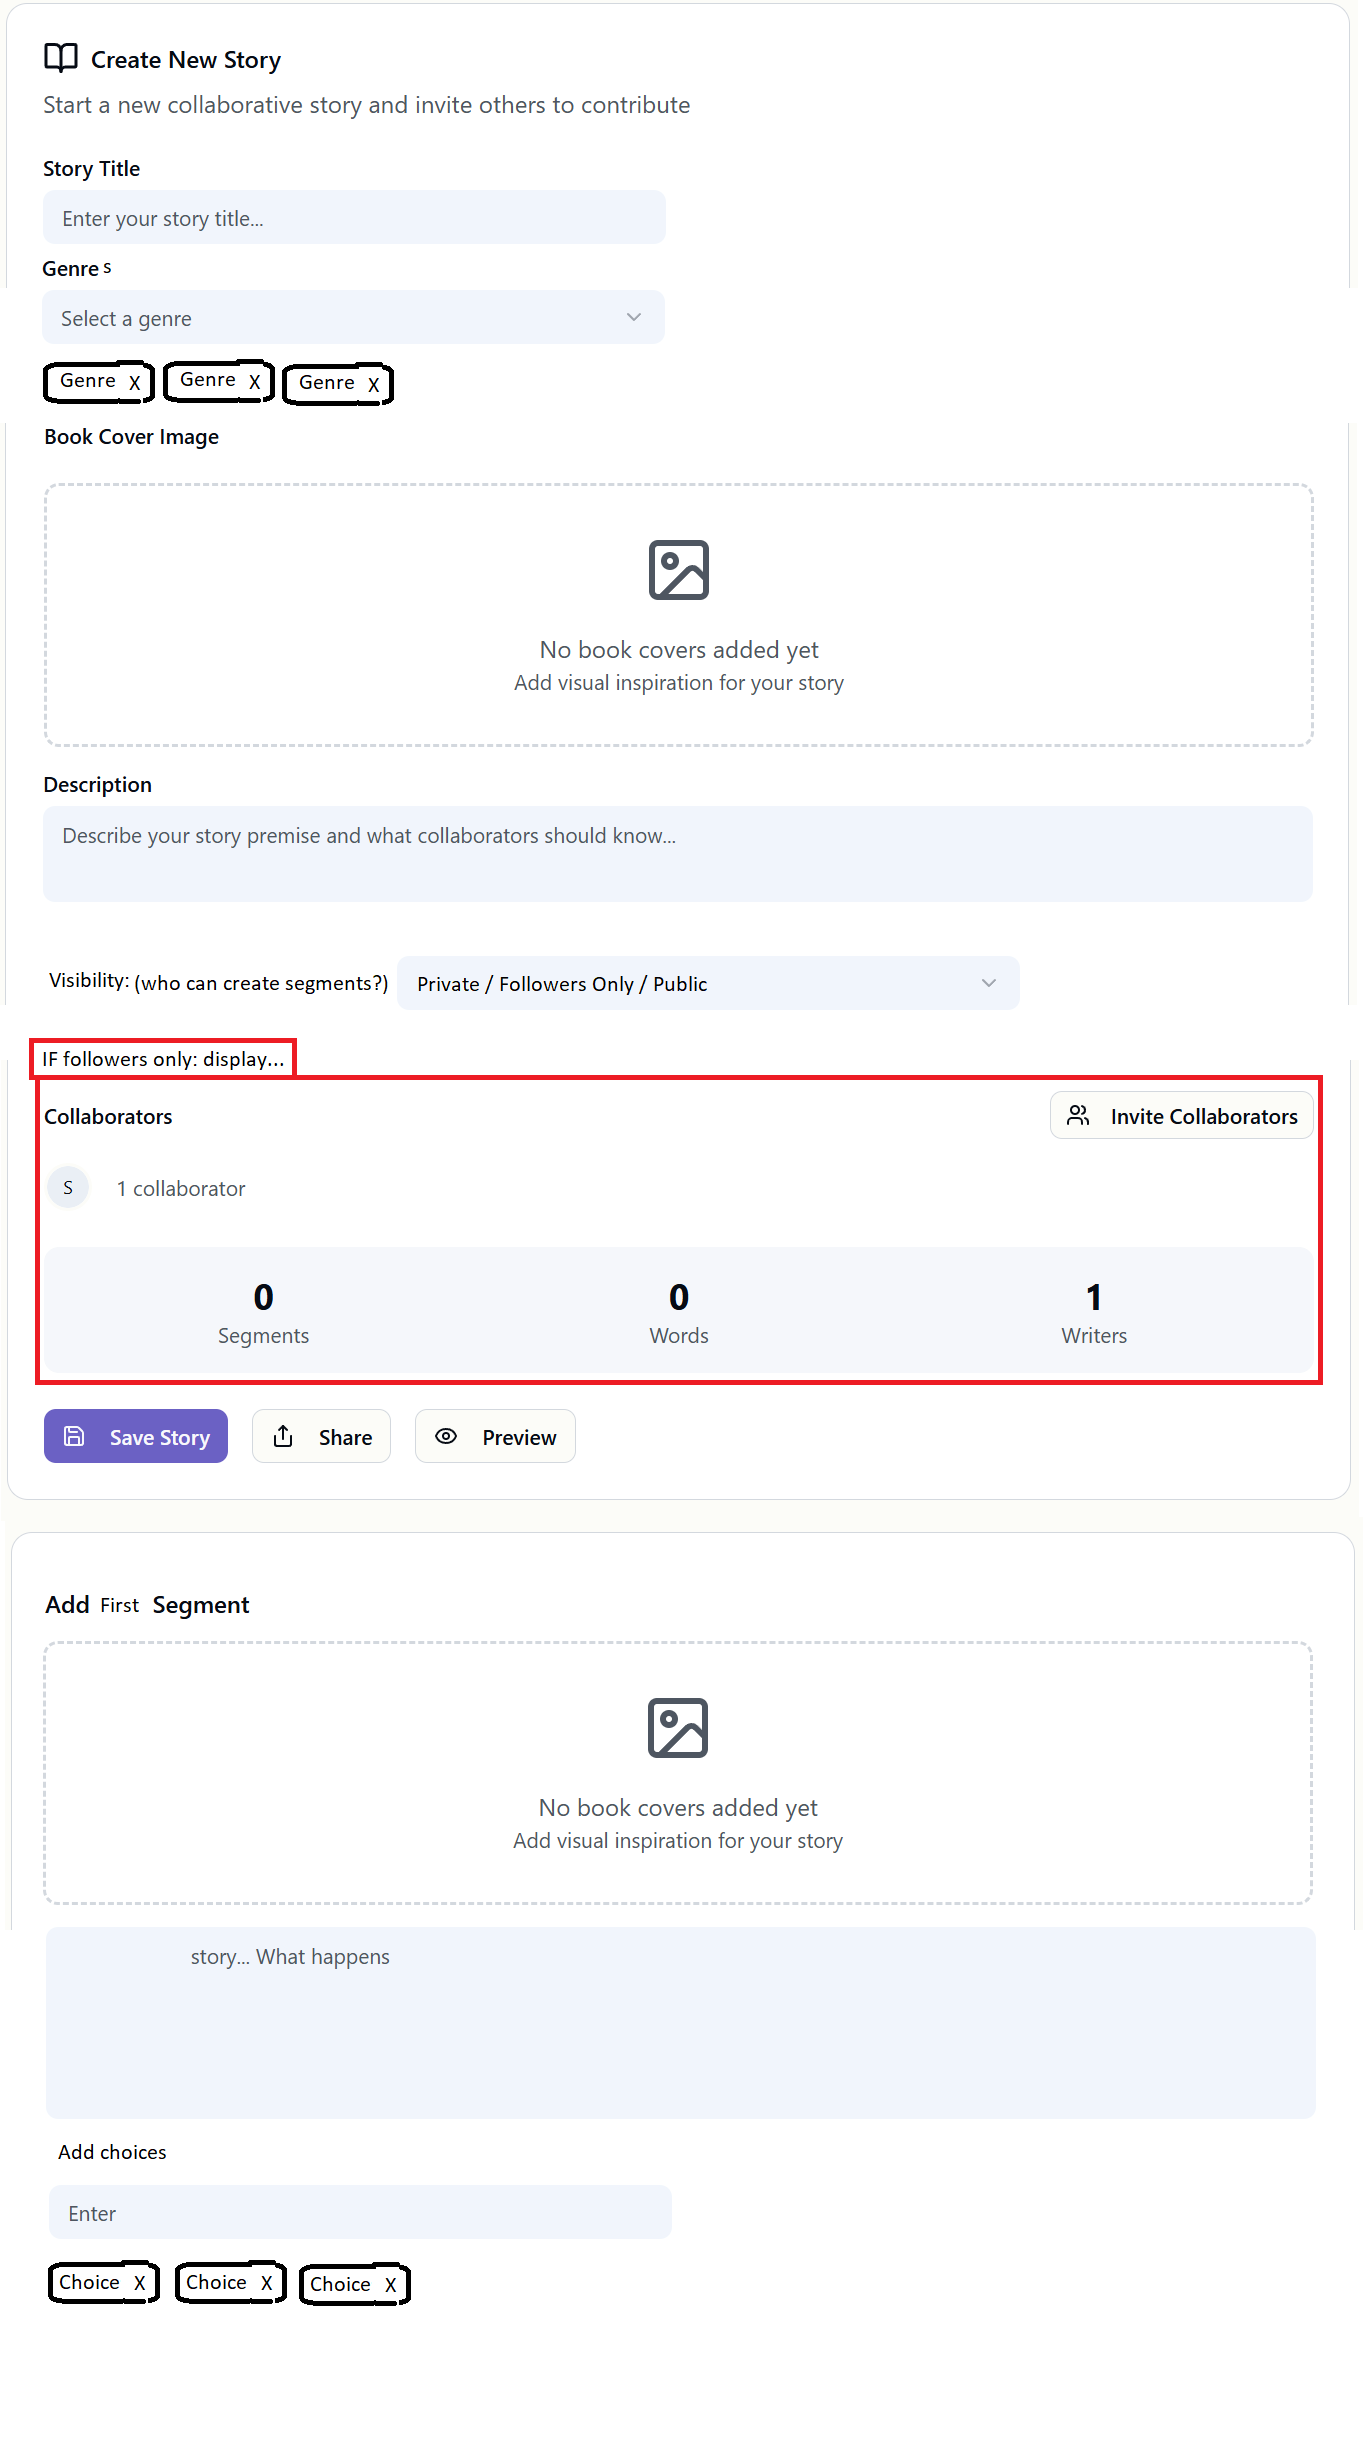
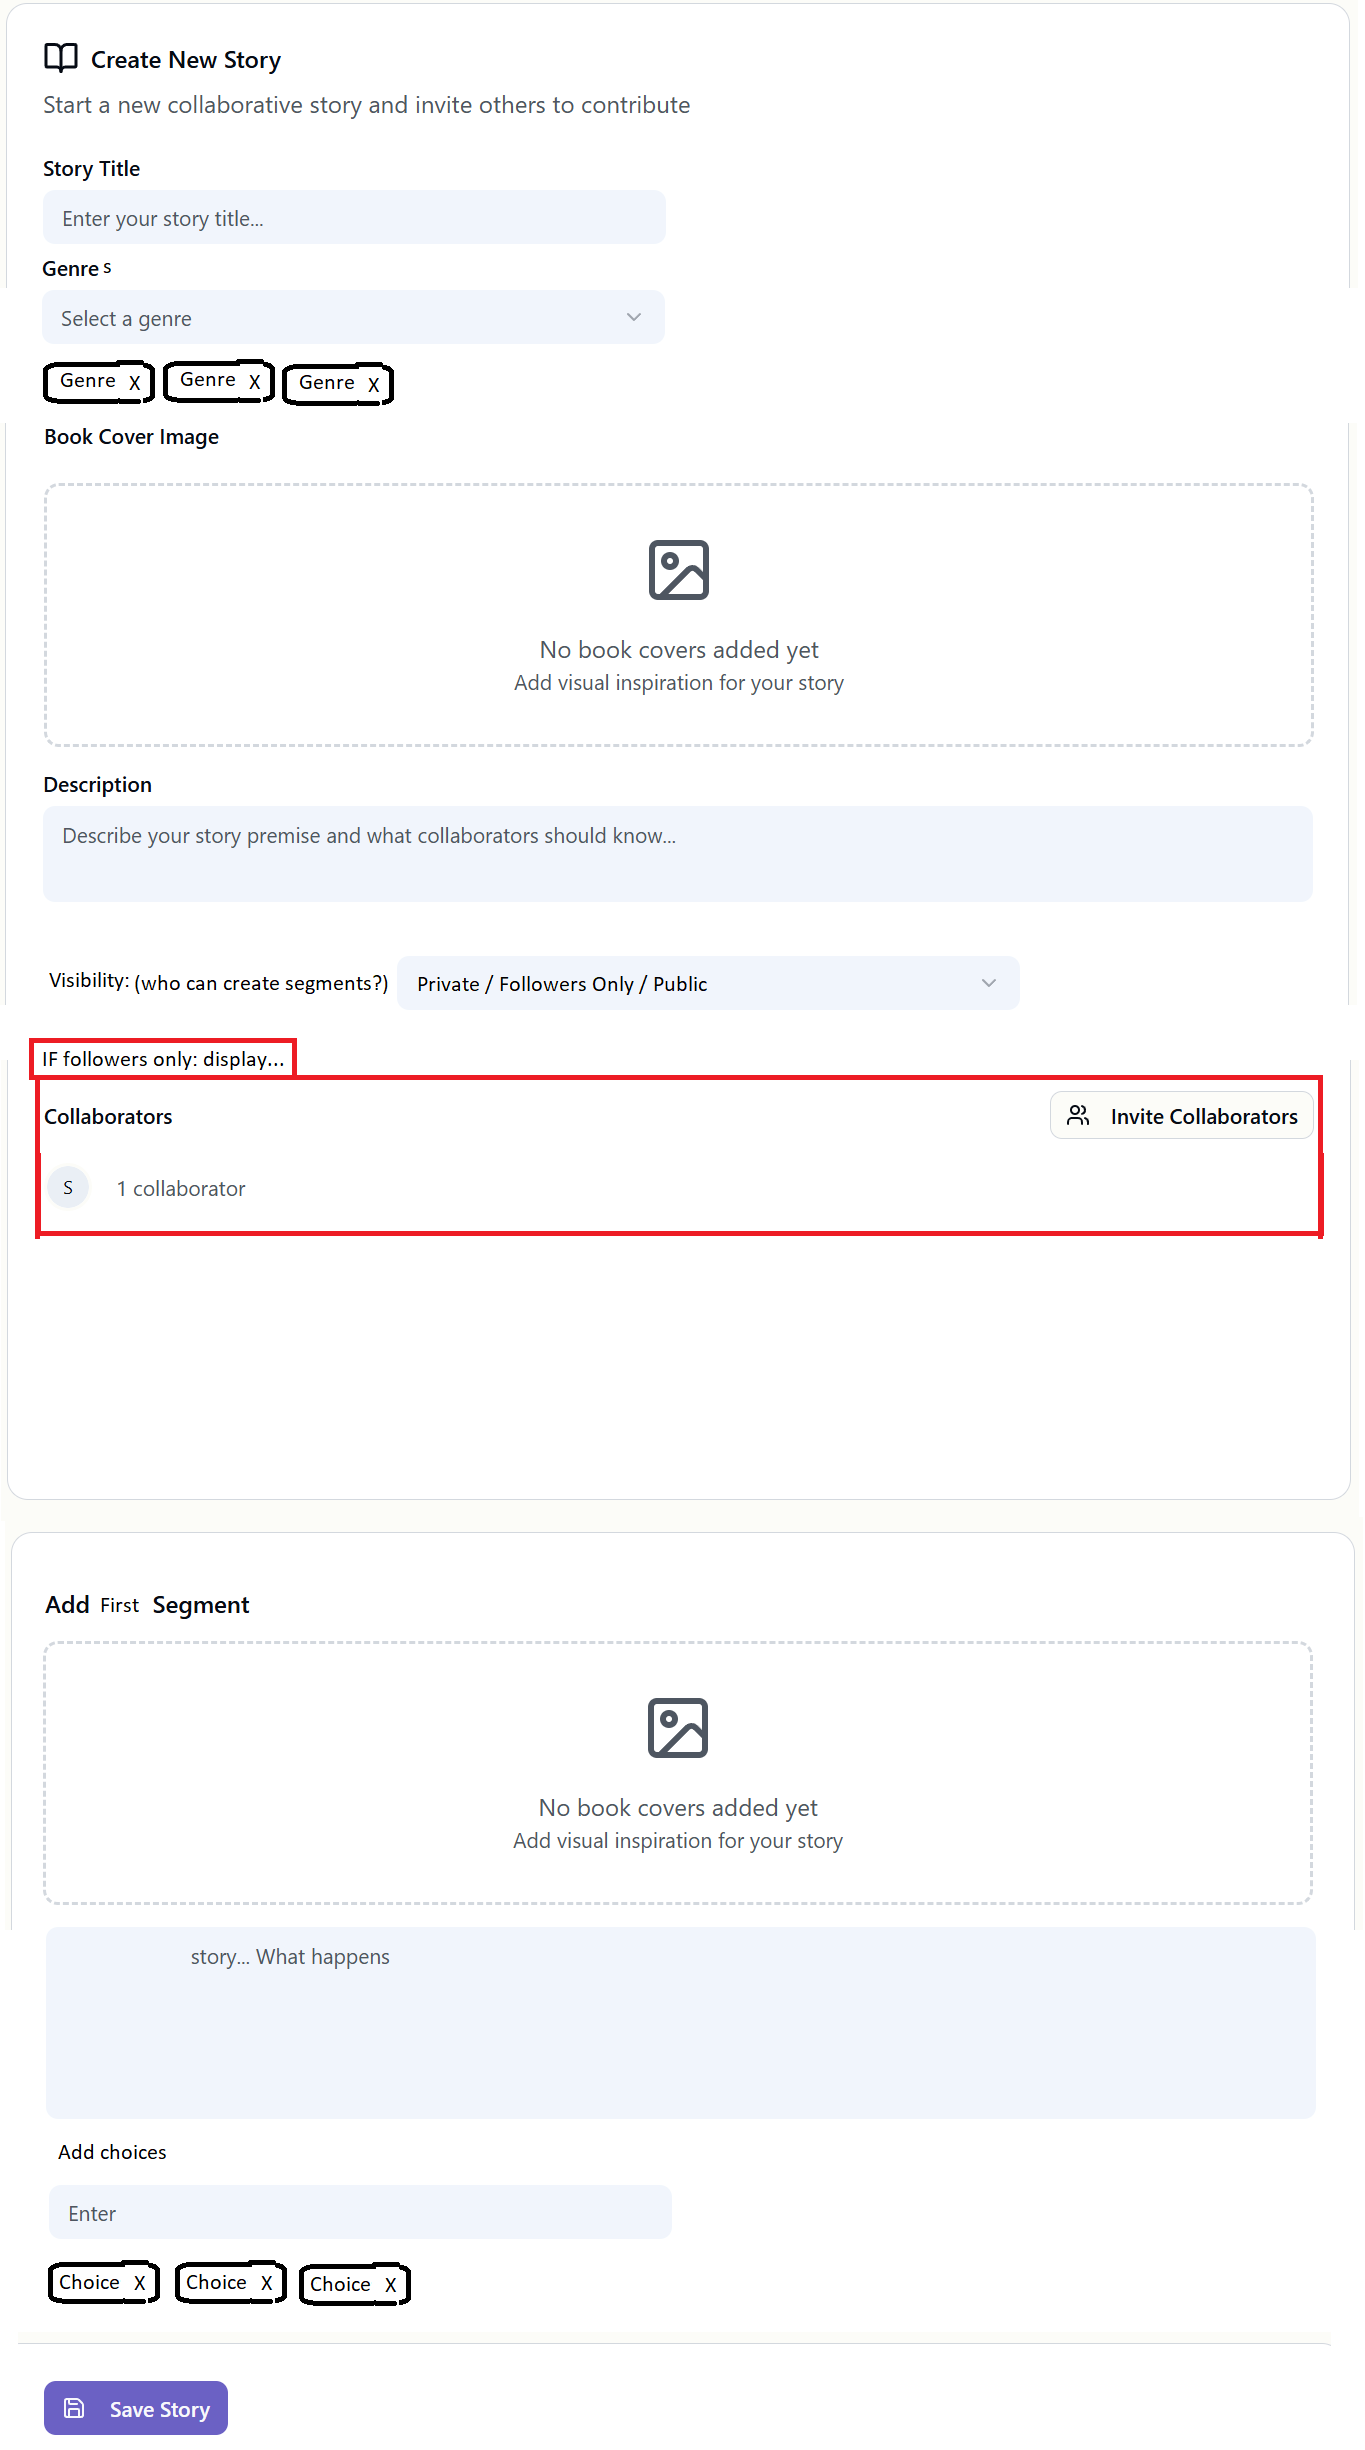
writestory start + maquettes modifs

diff --git a/src/inkreate/src/pages/WriteStory/WriteStory.jsx b/src/inkreate/src/pages/WriteStory/WriteStory.jsx
@@ -1,10 +1,63 @@
-
+import { useState } from 'react'
 import styles from './WriteStory.module.css'
 
 function WriteStory() {
+  const [inputs, setInputs] = useState({})
+  const [isFollowers, setIsFollowers] = useState(true)
+
+  const updateValue = (e) => {
+    setInputs(values => ({...values, [e.target.name]: e.target.value}))
+  }
+
   return (
     <>
-        WriteStory
+      <section>
+        <h2>New Story</h2>
+        <label>Title
+          <input
+            type="text" 
+            name="title" 
+            value={inputs.title}
+            onChange={updateValue}
+          />
+        </label>
+        <label>Genre(s):
+          <select 
+            name="genre"
+            value={inputs.genre}
+            onChange={updateValue}
+          >
+            <option value="Fantasy">Fantasy</option>
+            <option value="Action">Action</option>
+          </select>
+        </label>
+        <div>
+          {/* "genre" Comps TO-DO.map */}
+        </div>
+        {/* img + desc Comp TO-DO*/}
+        <label>Who can create segments?:
+          <select 
+            name="visibility"
+            value={inputs.visibility}
+            onChange={updateValue}
+          >
+            <option value="Only Me">Only Me</option>
+            <option value="Followers">Followers</option>
+            <option value="Anyone">Anyone</option>
+          </select>
+        </label>
+        {isFollowers &&
+          <div>
+            Contributors:
+            {/* added followers list + button to open ChatContactList */}
+            <button>Add contributors</button>
+          </div>
+        }
+      </section>
+      <section>
+        {/* new segment Comp (which includes img + desc Comp & "choice" Comps) TO-DO*/}
+      </section>
+      <button>Publish Story</button>
     </>
   )
 }
